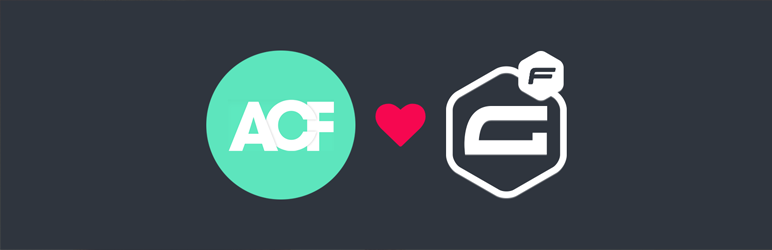
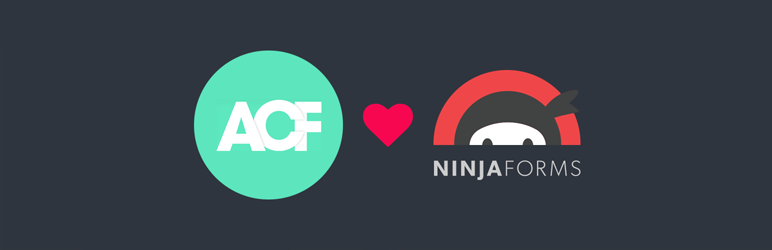
Add Languages, refactor code for ninjaforms and edit readme

Changed region(s): [[0.2487, 0.196, 0.7772, 0.812]]

diff --git a/resources/Field.php b/resources/Field.php
@@ -3,7 +3,7 @@
 namespace ACFNinjaformsField;
 
 use acf_field;
-use GFAPI;
+use Ninja_Forms;
 
 class Field extends acf_field
 {
@@ -24,7 +24,7 @@ class Field extends acf_field
     public function __construct()
     {
         $this->name = 'forms';
-        $this->label = __('Forms', 'gravityforms');
+        $this->label = __('Forms', 'ninja-forms');
         $this->category = __('Relational', 'acf');
         $this->defaults = [
             'return_format' => 'form_object',
@@ -35,8 +35,8 @@ class Field extends acf_field
         // Get our notices up and running
         $this->notices = new Notices();
 
-        if (class_exists('GFAPI')) {
-            $this->forms = GFAPI::get_forms();
+        if (class_exists('Ninja_Forms')) {
+            $this->forms = Ninja_Forms()->form()->get_forms();
         }
 
         // Execute the parent constructor as well
@@ -106,7 +106,7 @@ class Field extends acf_field
         }
 
         foreach ($this->forms as $form) {
-            $choices[$form['id']] = $form['title'];
+            $choices[$form->get_id()] = $form->get_setting('title');
         }
 
         // Override field settings and start rendering
@@ -200,7 +200,7 @@ class Field extends acf_field
         if (!empty($field['return_format']) && $field['return_format'] === 'id') {
             return (int)$value;
         }
-        $form = GFAPI::get_form($value);
+        $form = Ninja_Forms()->form($value)->get();
 
         //Return the form object if it's not an error object. Otherwise return false.
         if (!is_wp_error($form)) {
@@ -218,7 +218,7 @@ class Field extends acf_field
     public function hasValidForms()
     {
         // Stop if Ninjaforms is not active
-        if (!class_exists('GFAPI')) {
+        if (!class_exists('Ninja_Forms')) {
             $this->notices->isNinjaFormsActive(true, true);
 
             return false;

diff --git a/acf-ninjaforms-add-on.php b/acf-ninjaforms-add-on.php
@@ -3,7 +3,7 @@
 Plugin Name: Advanced Custom Fields: Ninjaforms Add-on
 Plugin URI: https://github.com/dannyvanholten/acf-ninjaforms-add-on
 Description: Advanced Custom Field with which we can select Ninjaforms.
-Version: 1.2
+Version: 1.0
 Author: Danny van Holten
 Author URI: http://www.dannyvanholten.com/
 Copyright: Danny van Holten
@@ -14,7 +14,7 @@ if (!defined('ABSPATH')) {
 } // Exit if accessed directly
 
 // Define multiple necessary constants
-define('ACF_NF_FIELD_VERSION', '1.2');
+define('ACF_NF_FIELD_VERSION', '1.0');
 define('ACF_NF_FIELD_TEXTDOMAIN', 'acf-ninjaforms-add-on');
 define('ACF_NF_FIELD_LANGUAGES', dirname(plugin_basename(__FILE__)) . '/languages/');
 

diff --git a/resources/Notices.php b/resources/Notices.php
@@ -2,7 +2,7 @@
 
 namespace ACFNinjaformsField;
 
-use GFAPI;
+use Ninja_Forms;
 
 class Notices
 {
@@ -34,7 +34,7 @@ class Notices
      */
     public function isNinjaFormsActive($inline = '', $alt = '')
     {
-        if (!class_exists('GFAPI')) {
+        if (!class_exists('Ninja_Forms')) {
             $notice = sprintf(__('Warning: You need to <a href="%s">Activate Ninjaforms</a> in order to use the Advanced Custom Fields: Ninjaforms Add-on.',
                 ACF_NF_FIELD_TEXTDOMAIN), admin_url('plugins.php'));
 

diff --git a/resources/FieldForV4.php b/resources/FieldForV4.php
@@ -3,7 +3,7 @@
 namespace ACFNinjaformsField;
 
 use acf_field;
-use GFAPI;
+use Ninja_Forms;
 
 class FieldForV4 extends acf_field
 {
@@ -38,7 +38,7 @@ class FieldForV4 extends acf_field
     public function __construct()
     {
         $this->name = 'forms';
-        $this->label = __('Forms', 'gravityforms');
+        $this->label = __('Forms', 'ninja-forms');
         $this->category = __('Relational', 'acf'); // Basic, Content, Choice, etc
         $this->defaults = [
             'return_format' => 'form_object',

diff --git a/README.md b/README.md
@@ -30,13 +30,13 @@ Now we know that we can easily use it to build our fields :)
 #### If you return an ID
 ```
 $form = get_field('my-form');
-gravity_form($form, true, true, false, '', true, 1); 
+do_shortcode('[ninjaform id='.$form.']'); 
 ```
 
 #### If you return an Object
 ```
 $form = get_field('my-form');
-gravity_form($form['id'], true, true, false, '', true, 1); 
+do_shortcode('[ninjaform id='.$form->get_id().']'); 
 ```
 
 #### If you return multiple Form ID's
@@ -44,7 +44,7 @@ gravity_form($form['id'], true, true, false, '', true, 1);
 $forms = get_field('my-form');
 
 foreach($forms as $form) {
-    gravity_form($form, true, true, false, '', true, 1); 
+    do_shortcode('[ninjaform id='.$form.']'); 
 }
 ```
 
